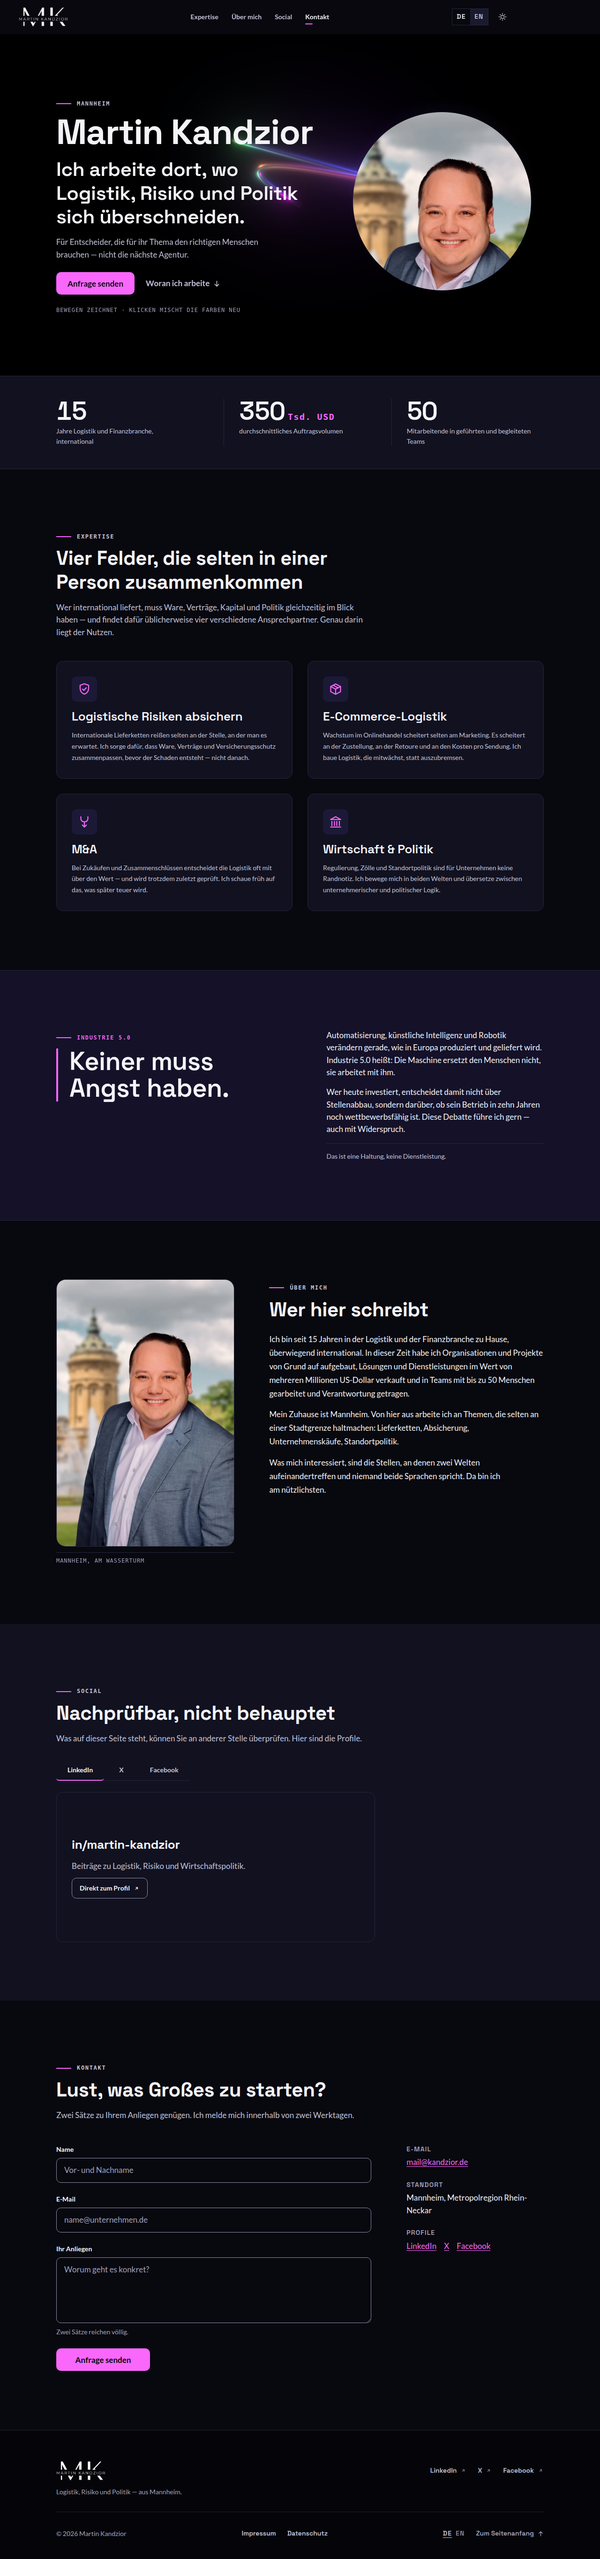
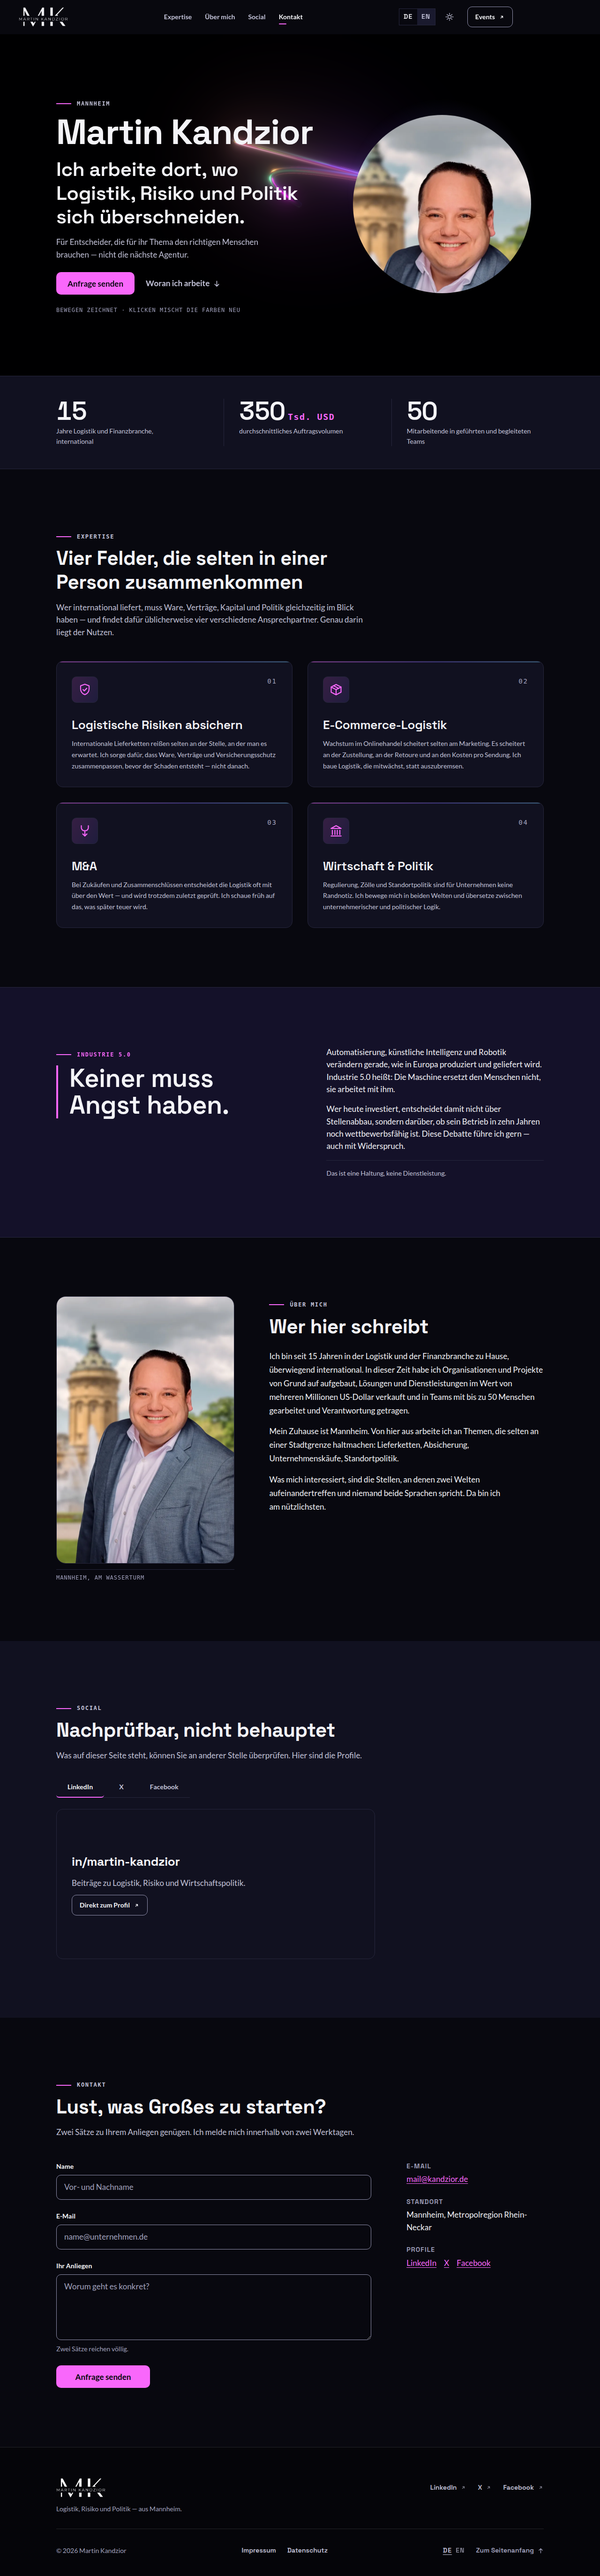
Säulen veredelt, Events-Knopf in der Navigation, X-Timeline dunkel
- Expertise-Karten als gezählte Sammlung: Nummern-Folio 01–04, feine
  Verlaufs-Oberkante in den Röhrenfarben (im Hover kräftiger), Icon-
  Kacheln mit Verlaufsfläche und Haarlinie.
- Ticket Tailor als sekundärer Knopf in der Kopfzeile (immer sichtbar
  ab 1024px — Navigation zu externem Ziel, kein zweiter Aufruf) und im
  mobilen Menü neben der Anfrage; Fußleiste des Menüs als Raster, auf
  320px nachgemessen.
- X-Timeline (Zwei-Klick) auf das dunkle Theme gestellt; social.json
  dokumentiert, was LinkedIn (Einbett-URLs einzelner Beiträge nötig)
  und Facebook (Page-Plugin verlangt eine Seite) von außen brauchen.
- Alle zwölf Suiten grün; Vorschau republished.

Claude-Session: https://claude.ai/code/session_017Xwob6sdxpQ2xTbn3eirFc

diff --git a/.design/kandzior-de/TASKS.md b/.design/kandzior-de/TASKS.md
@@ -155,3 +155,19 @@ jeder Aufgabe: die genannten Suiten grün.
   67,3 KB · axe 0 Verstöße (5 Kombinationen) · CLS 0,0017. OG-Bild v3.
 - [x] **N-9 — Vorschau:** Tubes als data-URI im dynamischen Import
   (Artifact hat keinen Server; 1,4 MB, null Netzanfragen), republished.
+
+## Feinschliff v3.1 (2026-08-17)
+
+- [x] **F3-1 — Säulen exklusiver:** Nummern-Folio 01–04 (Mono, Hover →
+  Marke), Verlaufs-Oberkante in den Röhrenfarben (0,45 → 1 im Hover),
+  Icon-Kacheln 56px mit Verlaufsfläche und Haarlinie. _expertise._
+- [x] **F3-2 — Events-Knopf (Ticket Tailor):** Kopfzeile ≥1024px sekundär
+  neben dem CTA (extern, noopener, Pfeil-Ikone); mobiles Menü als halbe
+  Zeile neben der Anfrage (320px nachgemessen, kein Querscroll). Ziel
+  aus events.json (boxOfficeUrl). _verify, footer._
+- [x] **F3-3 — Social-Einbettungen:** X-Timeline (Zwei-Klick, rendert als
+  iframe mit den letzten Beiträgen) auf data-theme=dark. LinkedIn: kein
+  Profil-Feed-Embed seitens LinkedIn — Struktur wartet auf Einbett-URLs
+  einzelner Beiträge (social.json, dokumentiert); Facebook: Page-Plugin
+  verlangt eine SEITE, martin.kandzior ist ein Profil → Profilkarte
+  bleibt. _socialtabs, consent, contact (0 Fremdanfragen ohne Klick)._
